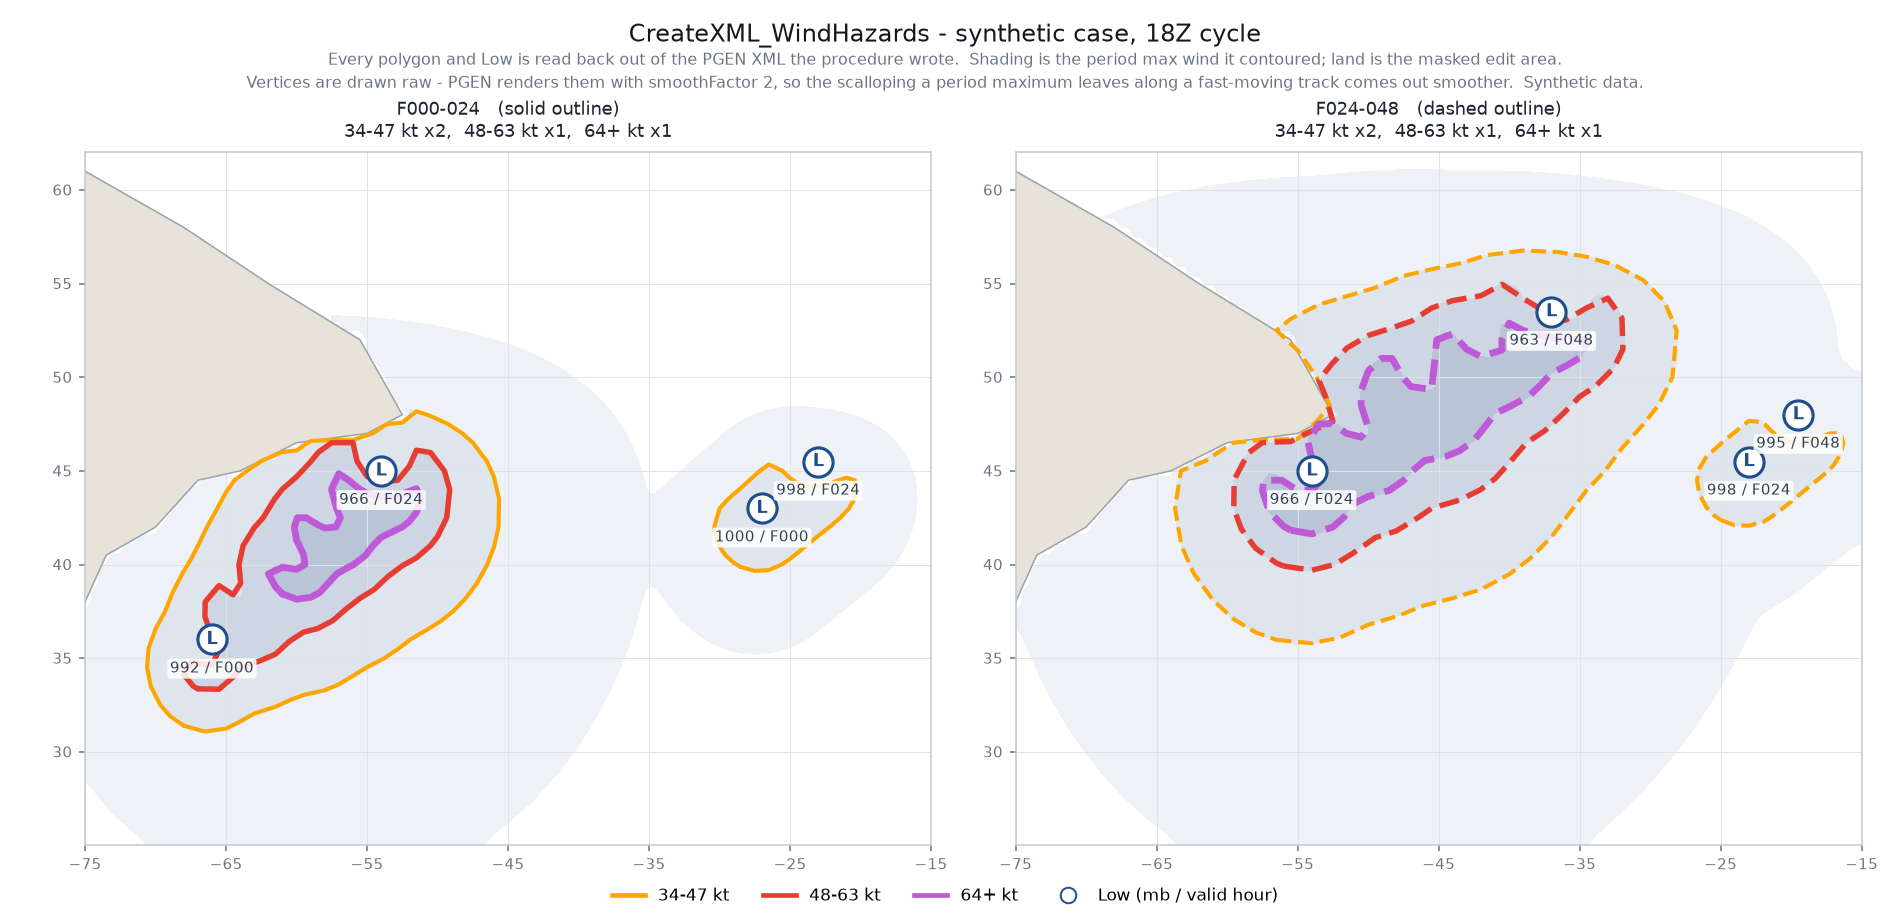
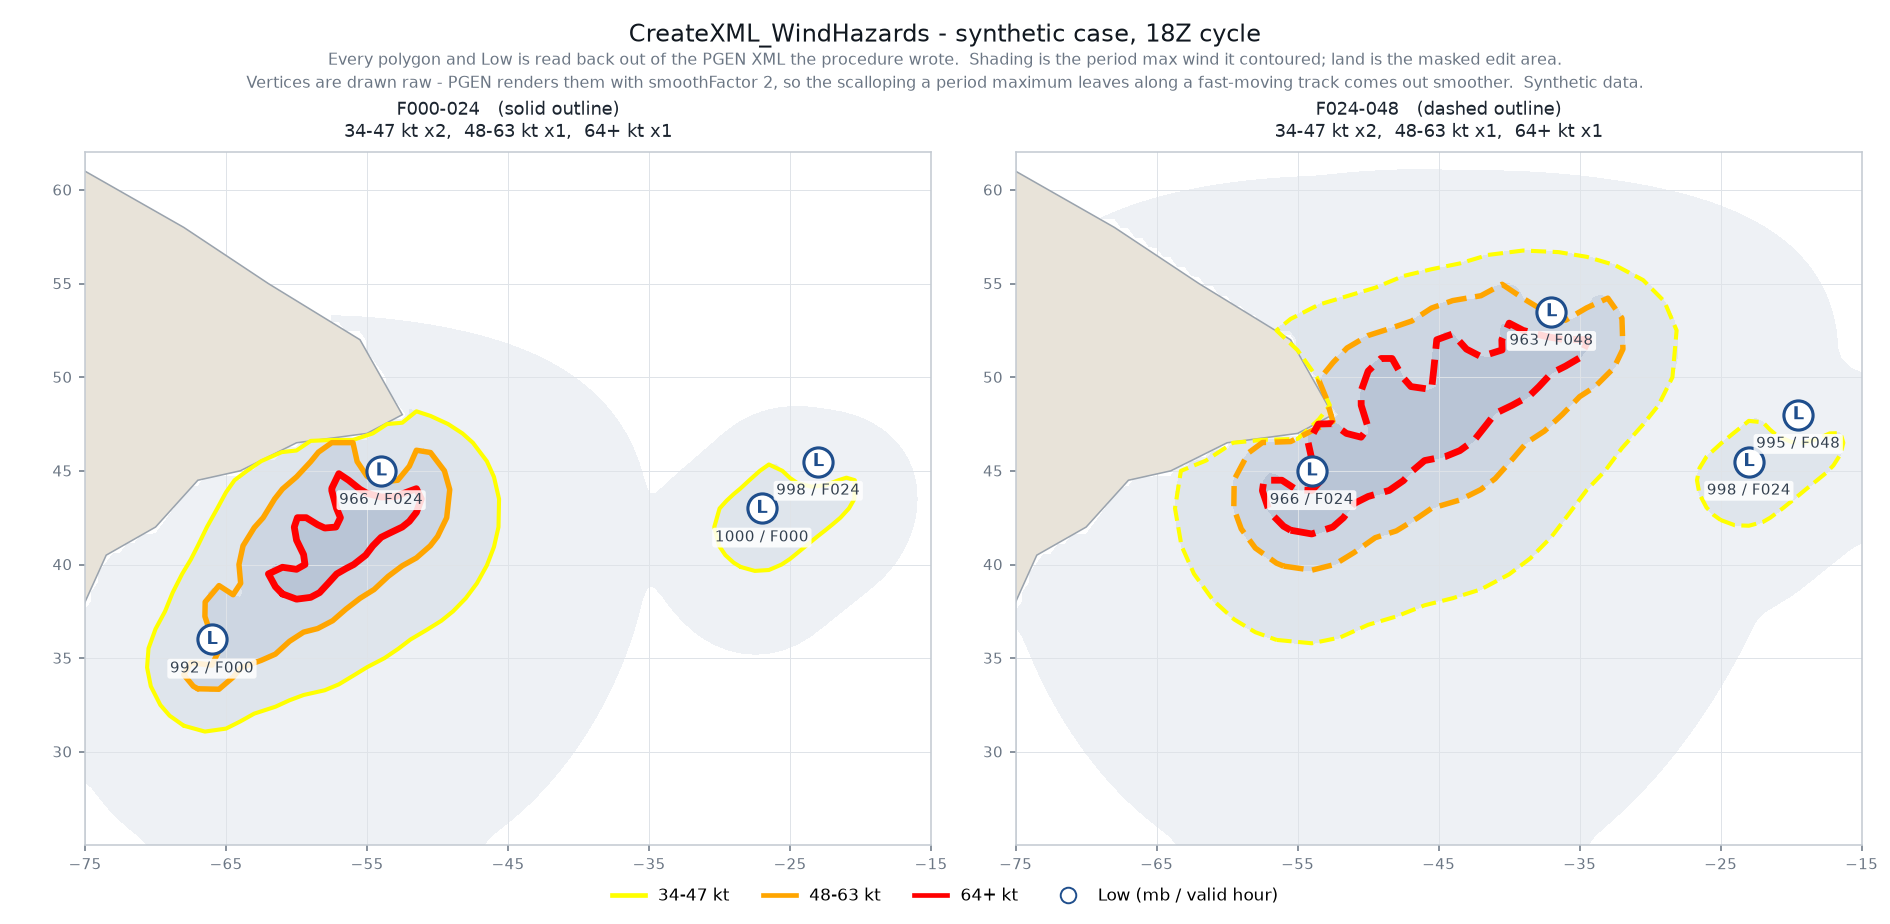
Use the marine warning convention for the band colors
Yellow gale, orange storm, red hurricane force, replacing the colors taken
from the Marine Weather Forecast Viewer's legend. The band labels still match
that legend (34-47, 48-63, 64+); only the colors change.

Claude-Session: https://claude.ai/code/session_012v4Yo1gWhzMvsdN6WkUj4C

diff --git a/GFE/procedures/CreateXML_WindHazards.py b/GFE/procedures/CreateXML_WindHazards.py
@@ -18,10 +18,12 @@
 # excuse is an area disappearing quietly, so every contour dropped by the
 # noise filters is reported by name and size on the status bar.
 #
-# The band labels and colors match the Marine Weather Forecast Viewer's
-# legend - Gale 34-47, Storm 48-63, Hurricane 64+ - so this overlay and the
-# viewer's rendering of the issued text read the same way.  Sub-gale is not
-# drawn; adding ("SubGale", "<34", 0.0) to WIND_BANDS would draw it.
+# The band labels match the Marine Weather Forecast Viewer's legend - Gale
+# 34-47, Storm 48-63, Hurricane 64+ - so this overlay and the viewer's
+# rendering of the issued text read the same way, and the colors follow the
+# usual marine warning convention: yellow gale, orange storm, red hurricane
+# force.  Sub-gale is not drawn; adding ("SubGale", "<34", 0.0) to WIND_BANDS
+# would draw it.
 #
 # Patterned on CreateXML.py (stephanie.stevenson) and, like it, subclasses
 # A2GraphicsFunctions so the site's own XmlUtils/MathUtils and the
@@ -124,13 +126,13 @@ CYCLE_HOURS = [0, 6, 12, 18]
 WIND_GRID_INTERVAL_HRS = 6
 
 # Color by band: the band carries the color, the period carries the pattern.
-# These follow the Marine Weather Forecast Viewer's warning legend.
-BAND_COLORS = {"Gale": (255, 165, 0),
-               "Storm": (230, 60, 50),
-               "Hurricane": (190, 90, 215)}
+# The usual marine warning convention - yellow, orange, red.
+BAND_COLORS = {"Gale": (255, 255, 0),
+               "Storm": (255, 165, 0),
+               "Hurricane": (255, 0, 0)}
 
 # Color by period: the period carries the color, the band carries the width.
-# Kept clear of the band colors above so the two modes never look alike.
+# Kept clear of the warning colors above so the two modes never look alike.
 PERIOD_COLORS = {"F000-024": (0, 255, 255),
                  "F024-048": (0, 150, 255)}
 

diff --git a/tests/create_xml_windhazards/test_windhazard_xml.py b/tests/create_xml_windhazards/test_windhazard_xml.py
@@ -567,7 +567,7 @@ def test_pgen_line_shape():
     check("smoothFactor set", line.get("smoothFactor") == str(module.SMOOTH_FACTOR))
     colors = list(line.iter("colors"))
     check("one color child", len(colors) == 1)
-    check("the gale band is the viewer's orange",
+    check("the gale band is warning-convention yellow",
           colors and (int(colors[0].get("red")), int(colors[0].get("green")),
                       int(colors[0].get("blue"))) == module.BAND_COLORS["Gale"])
     pts = list(line.iter("linePoints"))

diff --git a/README.md b/README.md
@@ -437,10 +437,12 @@ off and written down. What that does not excuse is an area disappearing
 quietly: every contour the noise filters drop is named, with its size, on the
 status bar.
 
-The band labels and colors follow the **Marine Weather Forecast Viewer**'s
-warning legend - Gale 34-47, Storm 48-63, Hurricane 64+ - so this overlay and
-the viewer's rendering of the issued text read the same way. Sub-gale is not
-drawn; adding `("SubGale", "<34", 0.0)` to `WIND_BANDS` would draw it.
+The band labels follow the **Marine Weather Forecast Viewer**'s warning
+legend - Gale 34-47, Storm 48-63, Hurricane 64+ - so this overlay and the
+viewer's rendering of the issued text read the same way, and the colors follow
+the usual marine warning convention: yellow gale, orange storm, red hurricane
+force. Sub-gale is not drawn; adding `("SubGale", "<34", 0.0)` to `WIND_BANDS`
+would draw it.
 
 It follows `CreateXML.py`: it subclasses `A2GraphicsFunctions` and leaves the
 product, layer, pressure extrema and `storeXML` work to the site's own
@@ -499,8 +501,8 @@ basin's `pgenProd_dict["saveLayers"]` is false.
 
 | Setting | Color | Period shown by | Band shown by |
 |---|---|---|---|
-| `Band` (default) | `BAND_COLORS` - the viewer's orange / red / purple | line pattern (`PERIOD_LINE_TYPES`: solid vs dashed) | color |
-| `Period` | `PERIOD_COLORS` - cyan and blue, kept clear of the band colors | color | line width (`LINE_WIDTH`) |
+| `Band` (default) | `BAND_COLORS` - yellow gale, orange storm, red hurricane force | line pattern (`PERIOD_LINE_TYPES`: solid vs dashed) | color |
+| `Period` | `PERIOD_COLORS` - cyan and blue, kept clear of the warning colors | color | line width (`LINE_WIDTH`) |
 
 `Hatch fill: On` additionally fills each polygon with its period's hatch
 pattern (`PERIOD_FILL_PATTERNS`) instead of leaving it as an outline. Every one
@@ -516,7 +518,7 @@ PGEN `Line` element itself:
 ```xml
 <Line pgenCategory="Lines" pgenType="LINE_SOLID" closed="true" filled="false"
       flagColor="false" lineWidth="3.0" sizeScale="1.0" smoothFactor="2">
-  <colors red="255" green="165" blue="0" alpha="255"/>
+  <colors red="255" green="255" blue="0" alpha="255"/>
   <linePoints Lat="34.9010" Lon="-51.0000"/>
 </Line>
 ```

diff --git a/tests/create_xml_windhazards/README.md b/tests/create_xml_windhazards/README.md
@@ -37,8 +37,9 @@ period can only come from a per-gridpoint maximum over the whole window.
 F000-024 topping out at 56 kt is also why there must be **no**
 `Hurricane_64+_F000-024` layer, while F024-048 at 80 kt gets all three bands.
 The band labels (`34-47`, `48-63`, `64+`) match the Marine Weather Forecast
-Viewer's warning legend, so a renamed band fails here rather than quietly
-drifting away from it.
+Viewer's warning legend and the colors are the marine warning convention
+(yellow, orange, red), so either one drifting fails here rather than quietly
+going its own way.
 
 `pmsl` encodes the forecast hour in its High and Low values, so each `Lows_Fxxx`
 layer's label proves which grid it came from - and the High, which the field
